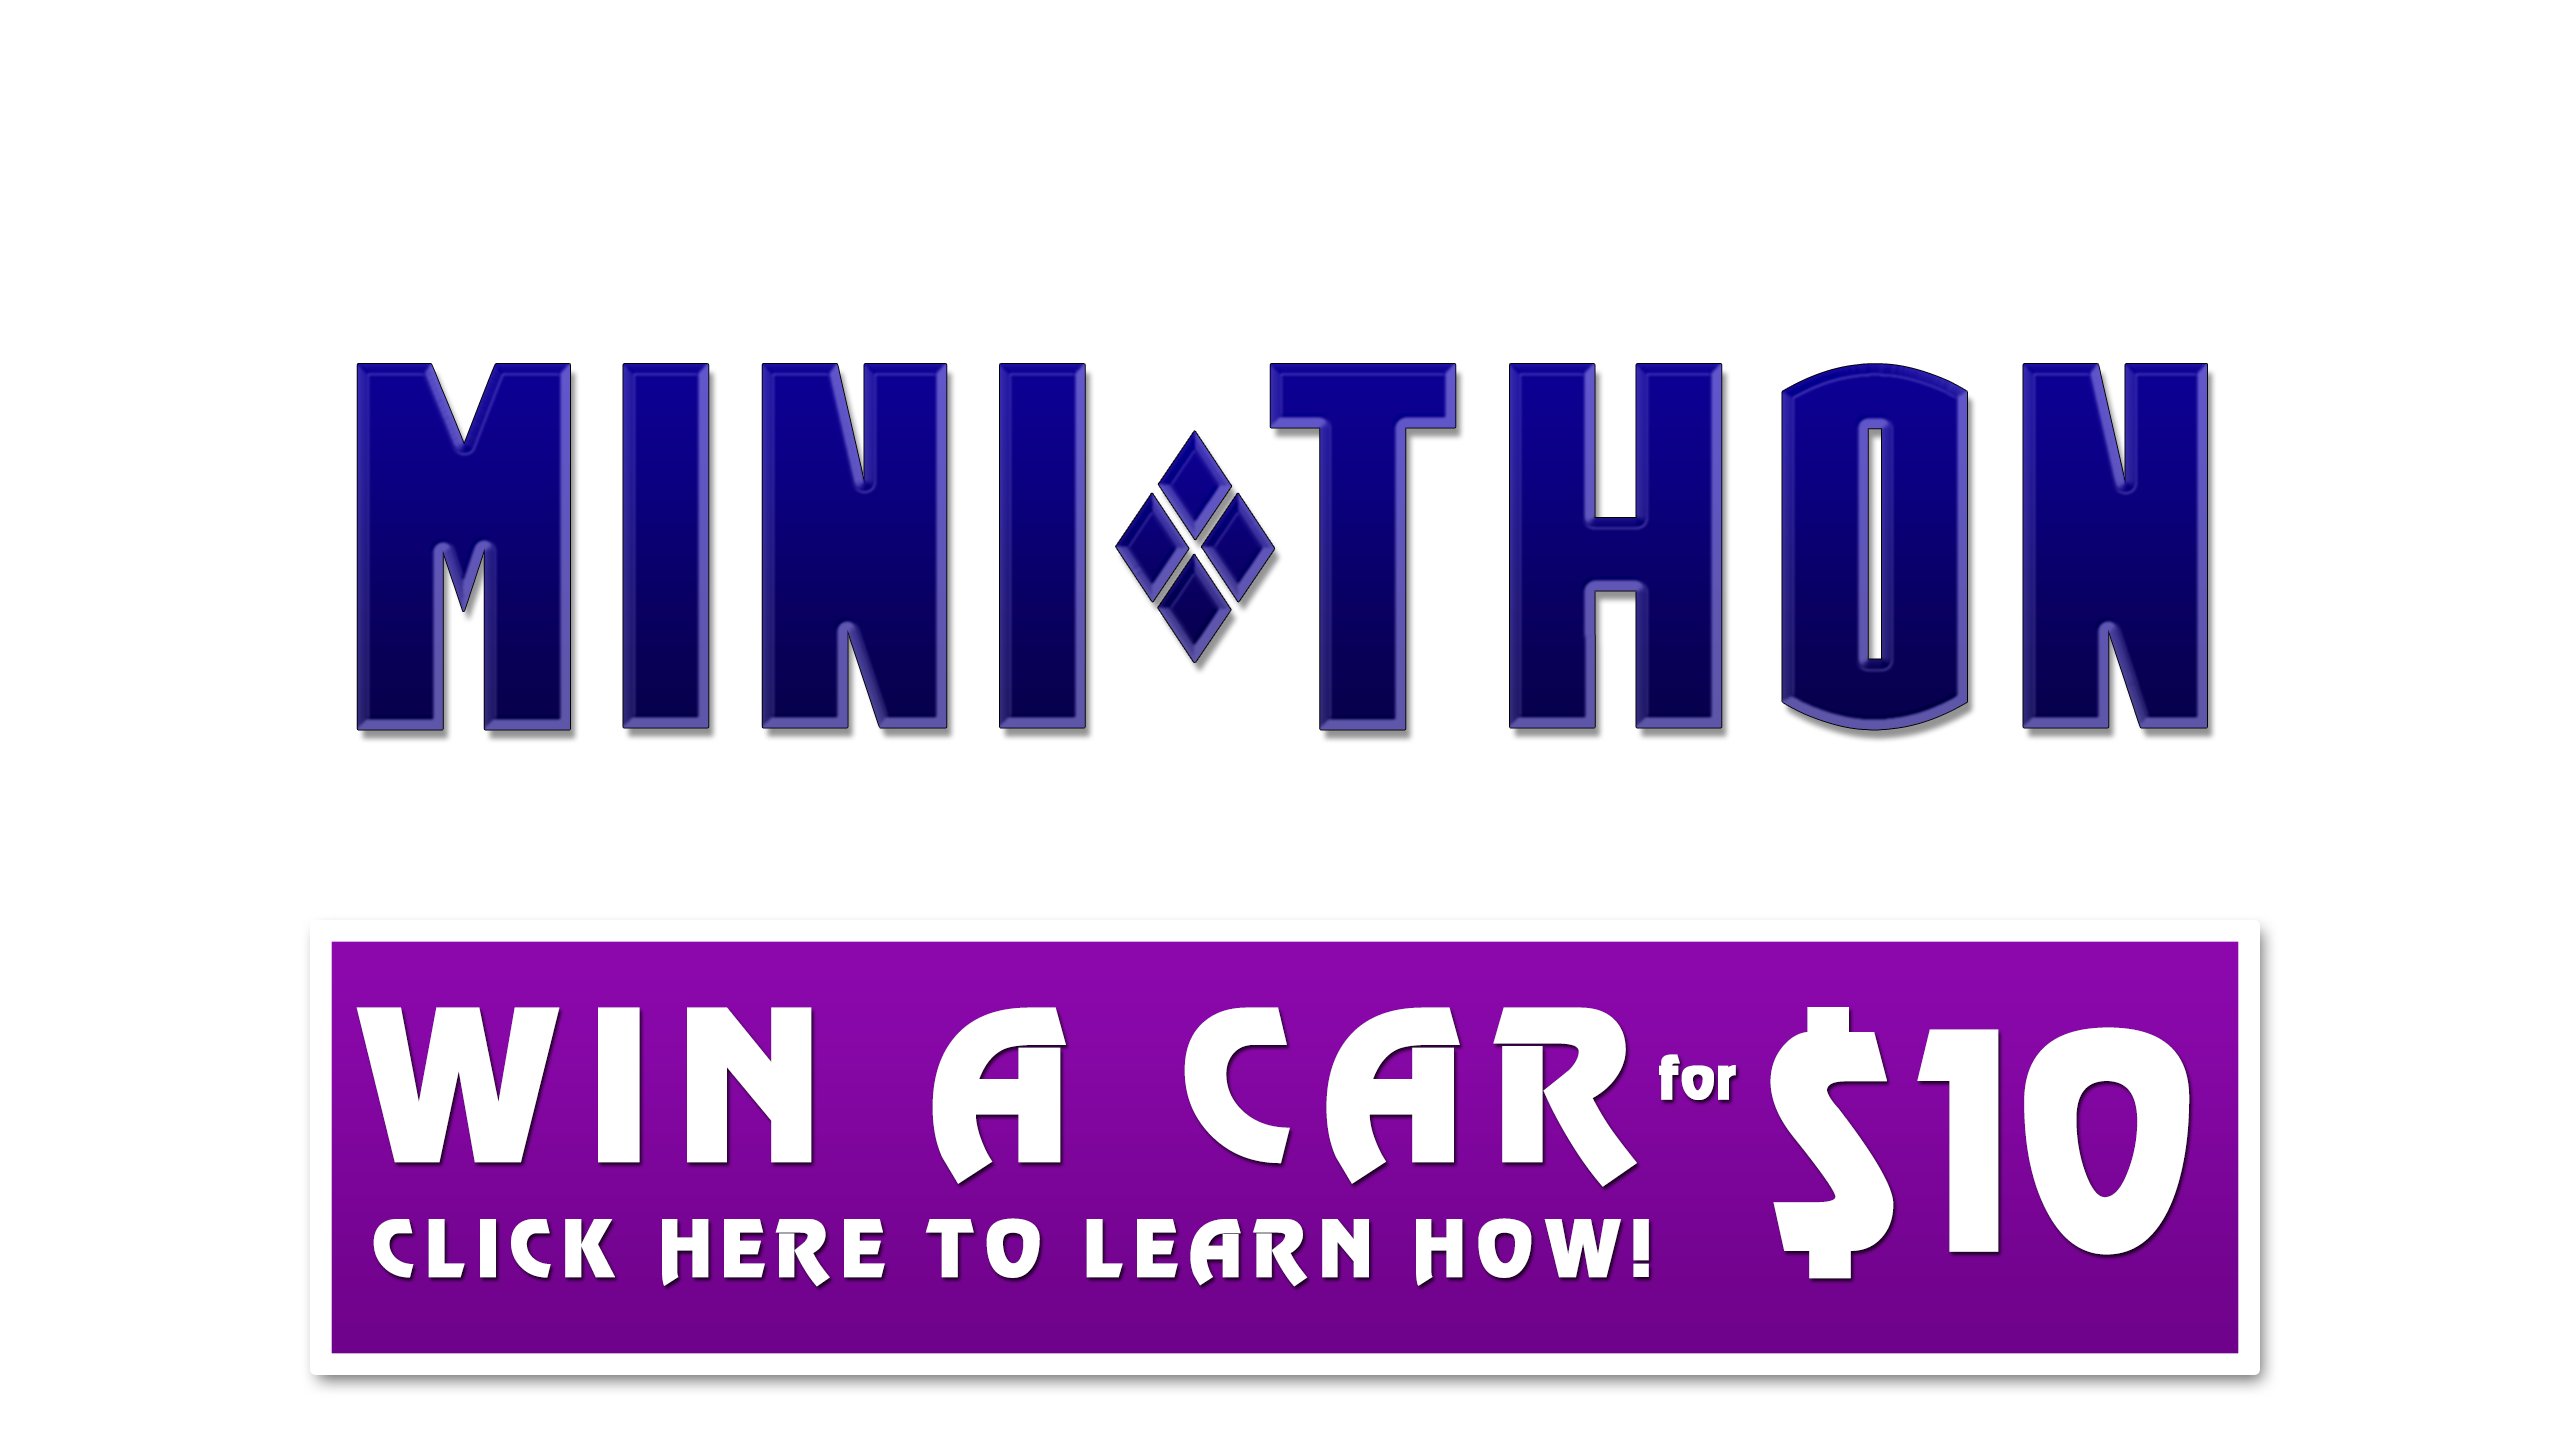
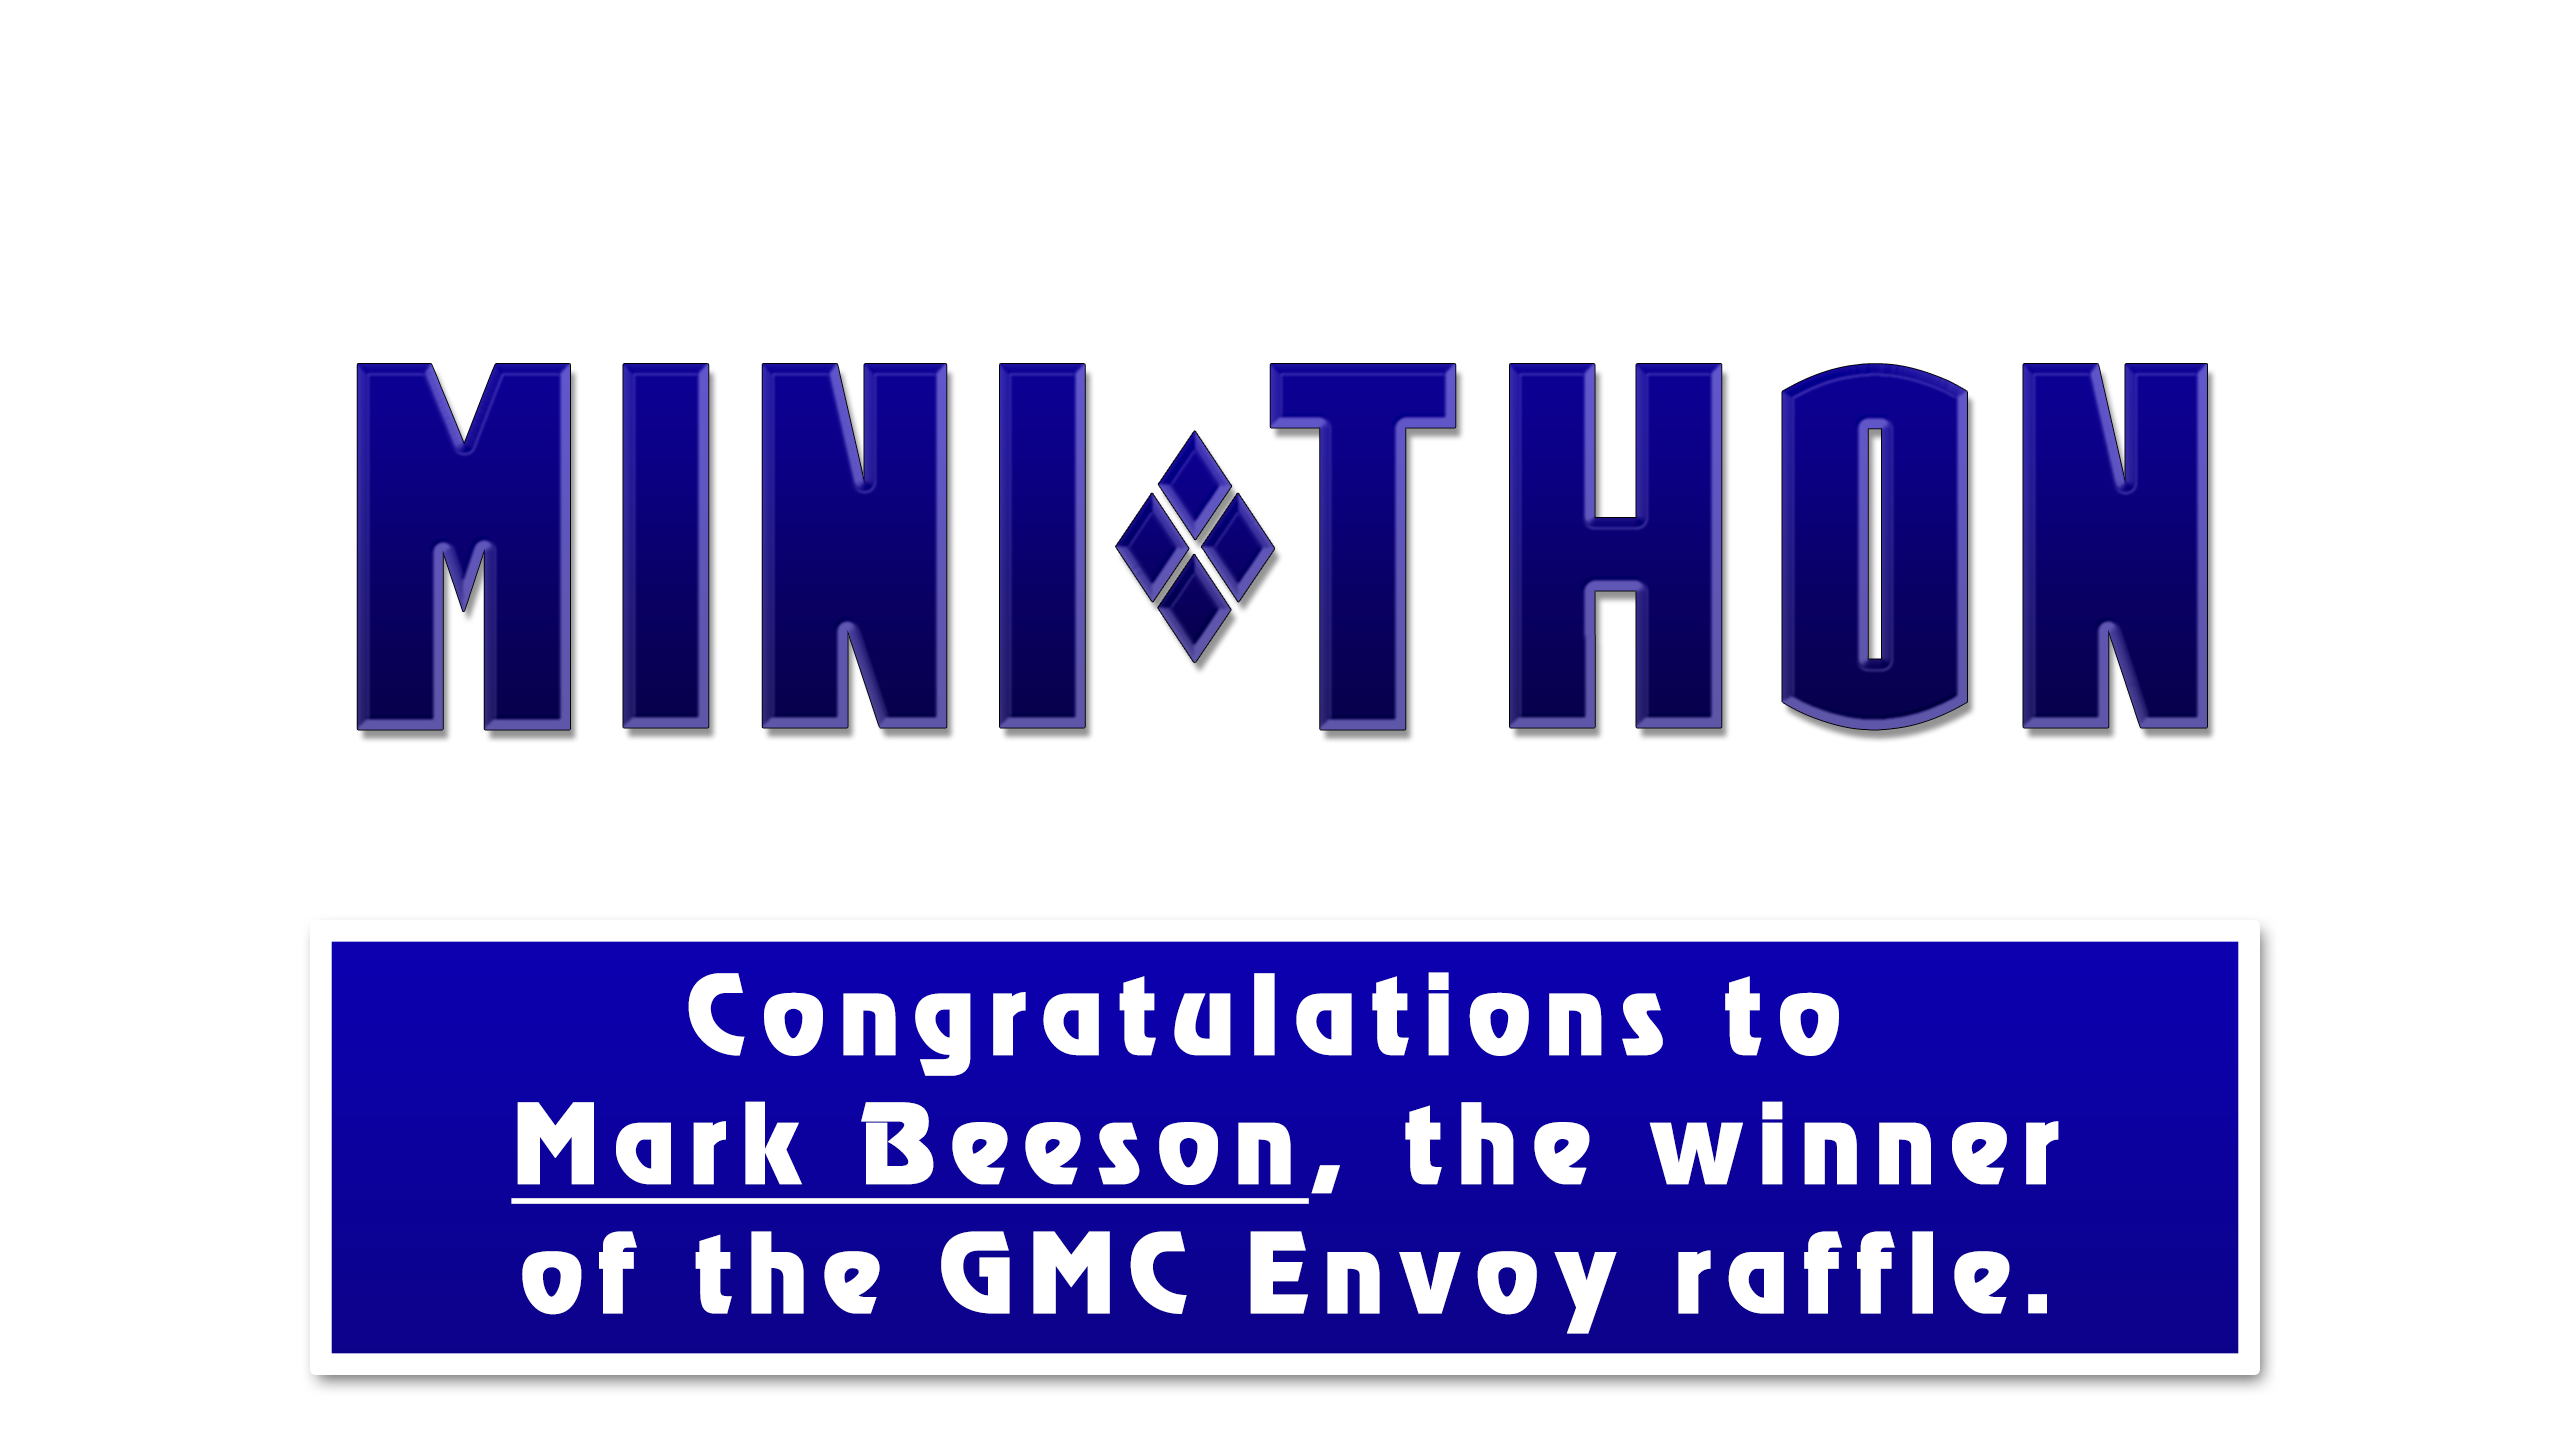
Car winner

Changed region(s): [[0.125, 0.6562, 0.875, 0.9375]]

diff --git a/index.html b/index.html
@@ -147,18 +147,17 @@
           <div class="caption text-center text-white" data-stellar-ratio="0.7">
             <div]>
               <div class="item">
-                <div><a href="#car" class="page-scroll"><img id="event-logo" src="img/hero_header.png"></img></a></div>
+                <div><a href="#car" class="page-scroll"><img id="event-logo" src="img/hero_header_BANNER.png"></img></a></div>
                 <br>
-                <p id="event-date"><strong>Join us on February 24th, 2017.</strong></p>
+                <p id="event-date"><strong>Join us next year.</strong></p>
                 <p id="event-slogan"><strong>For The Fight. For The Cure. For The Kids.</strong></p>
                 <p id="countdown"></p>
                 <br/>
                 <a class="btn btn-blank" id="main-donate"href="http://fourdiamonds.donordrive.com/index.cfm?fuseaction=donorDrive.event&eventID=1490" target="_blank" role="button">
                   <strong>Donate</strong>
                 </a>
-                 <a class="btn btn-blank page-scroll" id="main-signup"href="#signup">
+                 <a class="btn btn-blank page-scroll" id="main-signup" href="#signup">
                   <strong>Sign Up</strong>
-                </a>
               </div>
             </div>
           </div>
@@ -246,7 +245,7 @@
         </div>
         <!-- End page header-->
 <h1 class="text-center">$45,307 FOR THE KIDS.</h1>
-<h3 class="text-center">Check Back in the fall for info on our 2018 Mini-THON!</h3>
+<h3 class="text-center">Check back in the fall for info on our 2018 Mini-THON!</h3>
         <!-- Begin Money Bar/Donation button
         <div class="our-skills">
           <div class="container">
